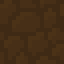
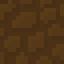
Added a button texture, and updated dirt and grass texture. Fixed a spelling mistake

diff --git a/assets/css/style.css b/assets/css/style.css
@@ -25,13 +25,17 @@ body{font-family: monospace;}/*font-family:"Orc Horde BB", Fallback, sans-serif;
 
 .actionMenu{display:flex;height:100%;max-width:1000px;margin:auto;}
   .actionMenu-item{flex-grow:1;padding:20px;padding-bottom:0;}
-  .actionMenu-item button{width:100%;height:100%;background:rgba(0,0,0,0.25);border:none;font-family:"Orc Horde BB", Fallback, sans-serif;color:#fff;font-size:1.5em;}
+  .actionMenu-item button{width:100%;height:100%;background-image:url("../images/button-background.png");background-size:44px;border:none;font-family:"Orc Horde BB", Fallback, sans-serif;color:#513414;font-size:1.5em;position:relative;}
   .actionMenu-item button:focus{outline:none;}
-  .actionMenu-item button:hover{cursor:pointer;background:rgba(0,0,0,0.5);}
-  .actionMenu-item button:disabled{background:rgba(255,0,0,0.25);}
+  .actionMenu-item button:hover{cursor:pointer;color:#5d3e1d;}
+  .actionMenu-item button:disabled{color:#aa6737;}
+  .actionMenu-item button::before,
+  .actionMenu-item button::after{content:"";position:absolute;top:0;width:17px;height:100%;}
+  .actionMenu-item button::before{left:-17px;background-image:url("../images/button-bg-left.png");background-size:17px 44px;}
+  .actionMenu-item button::after{right:-17px;background-image:url("../images/button-bg-right.png");background-size:17px 44px;}
 
-.player{height:256px;width:128px;background:blue;position:absolute;bottom:304px;left:64px;}
-.enemy{height:256px;width:128px;background:red;position:absolute;bottom:304px;right:64px;}
+.player{height:256px;width:128px;background:blue;position:absolute;bottom:296px;left:64px;}
+.enemy{height:256px;width:128px;background:red;position:absolute;bottom:296px;right:64px;}
 
 .ground{width:100%;height:64px;position:absolute;bottom:240px;background-image:url("../images/grass.png");background-repeat:repeat-x;background-size:64px 64px;}
 

diff --git a/index.html b/index.html
@@ -14,7 +14,7 @@
 			</div>
 			<div id="gameover" class="gameover">
 				<h1>GAME OVER</h1>
-				<h2>You died... Congraulations.</h2>
+				<h2>You died... Congratulations.</h2>
 				<h2>Refresh the page to restart</h2>
 			</div>
 			<div id="mainMenu" class="mainMenu">
